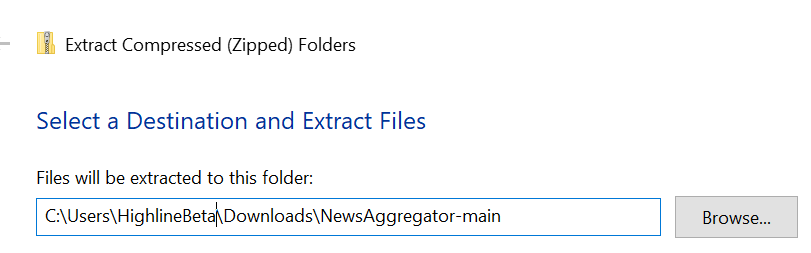
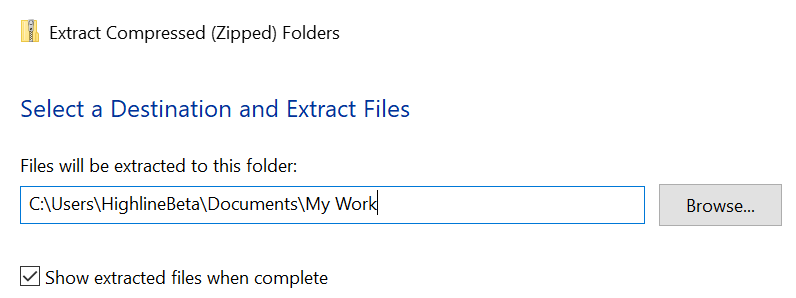
update readme for project path difficulties

diff --git a/README.md b/README.md
@@ -32,9 +32,17 @@
 #### 4. **Navigate to the Project Folder**
 
 - In the terminal, use the `cd` command to go to the folder where you extracted the ZIP file.
-  - Example: If you extracted it to `C:\Users\HighlineBeta\Downloads\NewsAggregator-main`, type:
+
+  - Example: If you extracted it to `C:\Users\HighlineBeta\Documents\My Work`, type:
+
     ```bash
-    cd C:/Users/HighlineBeta/Downloads/NewsAggregator-main
+    cd "C:/Users/HighlineBeta/Documents/My Work"
+    ```
+
+    then type
+
+    ```bash
+    cd NewsAggregator-main
     ```
 
 #### 5. **Create a Virtual Environment**
